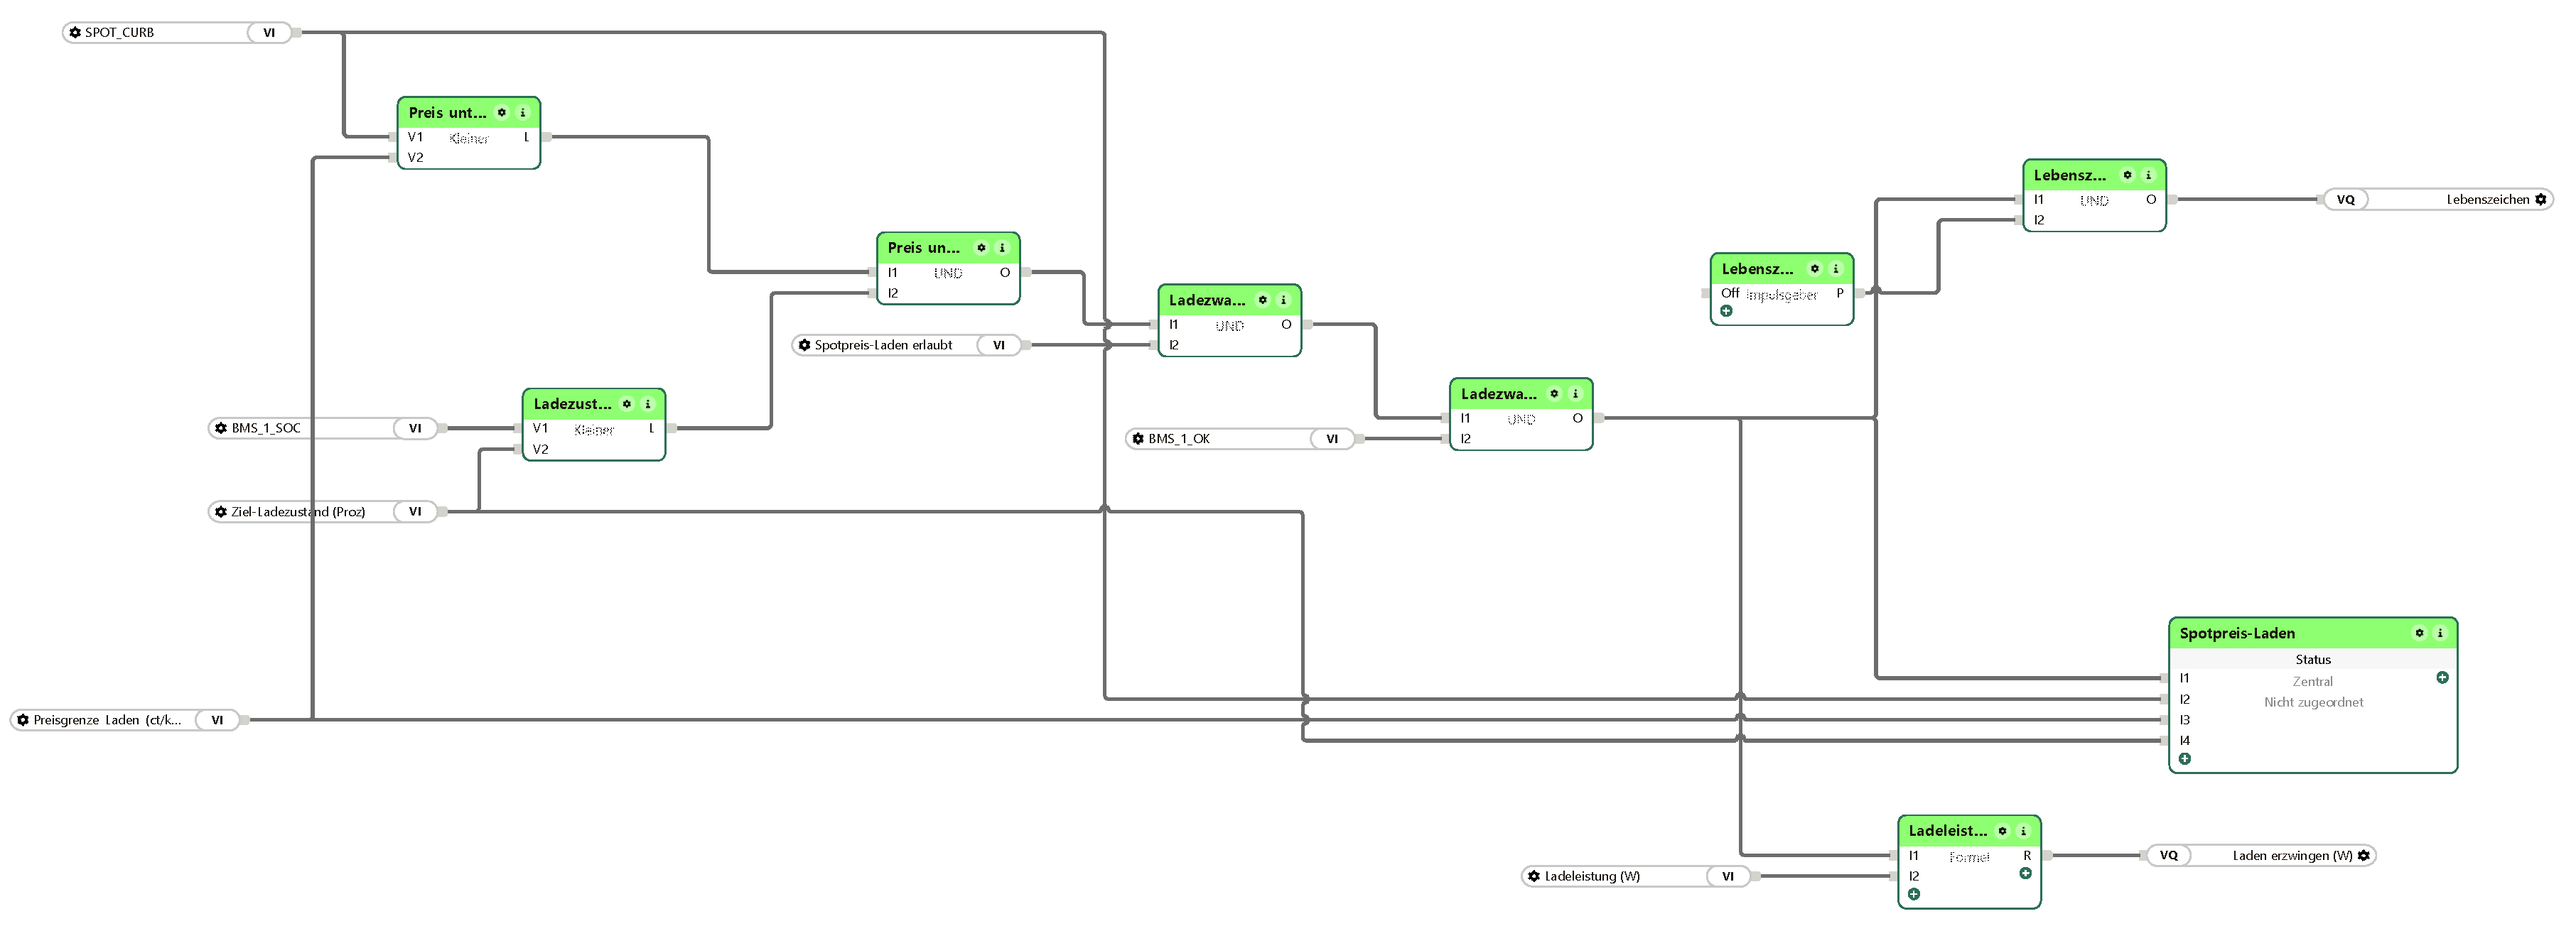
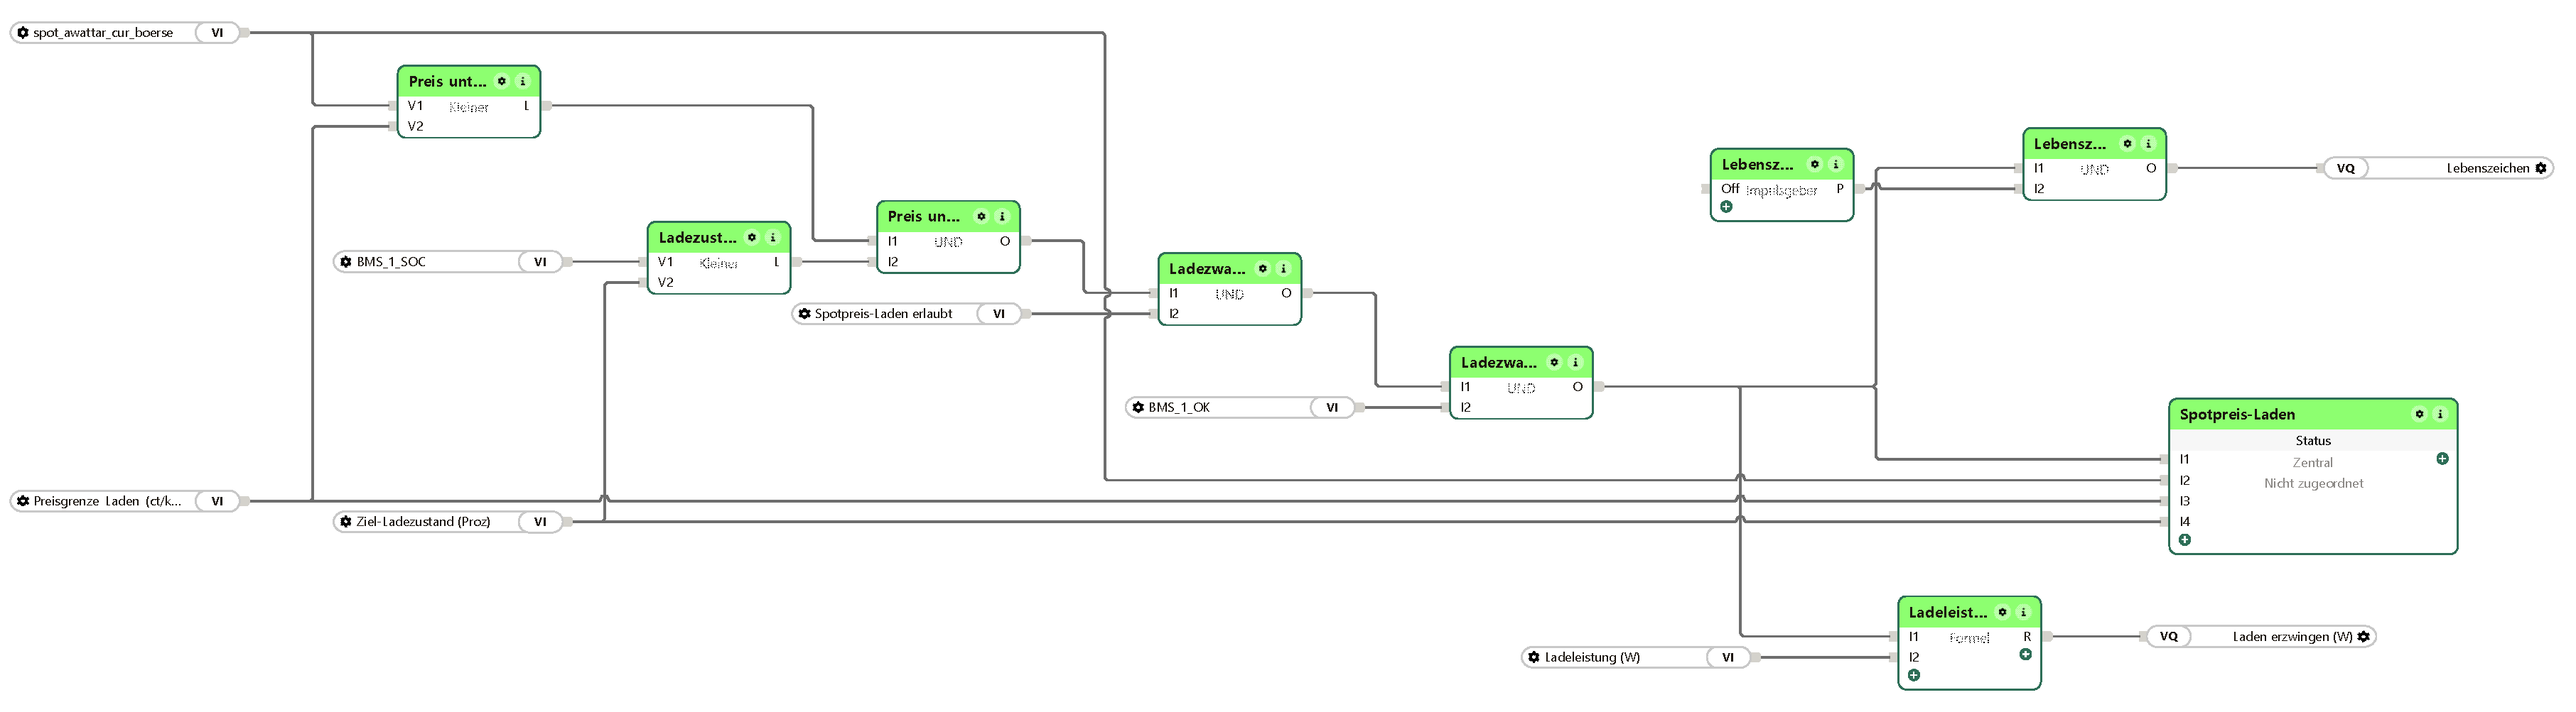
BatterieBMS 0.9.37: BatterieBMS 0.9.37: Börsenpreis als Virtueller Eingang (MQTT, aWATTar 1.2.38)
Textnachzug zum Musterprojekt, Reiter **Einbindung in Loxone**, Seite „BatterieBMS Spotpreis-Laden“: Spotpreis aWATTar liefert die
Werte jetzt über MQTT. Nr. 3 ist deshalb ein Virtueller Eingang `spot_awattar_cur_boerse` (bisher Virtueller HTTP-Eingang-Befehl
`SPOT_CURB` aus der Vorlage „Spotpreis aWATTar“): Virtuellen Eingang mit dem Namen aus der Namenstabelle im Reiter ‚Einbindung in Loxone‘ des Plugins Spotpreis aWATTar (ab 1.2.38) anlegen.
Kasten, Hinweise und Bild der Seite sind nachgezogen. Das Plugin selbst und seine Vorlagen sind unverändert.

diff --git a/webfrontend/htmlauth/index.php b/webfrontend/htmlauth/index.php
@@ -1840,8 +1840,8 @@ function bm_bausteine_spot()
     return array(
         bm_bl_zeile(1,  $tvi, bm_bl_vi('OK'),  bm_bl_param('BAUSTEIN.S01'), $leer),
         bm_bl_zeile(2,  $tvi, bm_bl_vi('SOC'), bm_bl_param('BAUSTEIN.S02'), $leer),
-        bm_bl_zeile(3,  bm_e(sprintf(bm_t('BAUSTEIN.T_VE_PLUGIN'), 'Spotpreis aWATTar', 'Spotpreis aWATTar')),
-                    '<span class="sm-mono">SPOT_CURB</span>', bm_bl_param('BAUSTEIN.S03'), $leer),
+        bm_bl_zeile(3,  bm_e(sprintf(bm_t('BAUSTEIN.T_VE_PLUGIN'), 'Spotpreis aWATTar')),
+                    '<span class="sm-mono">spot_awattar_cur_boerse</span>', bm_bl_param('BAUSTEIN.S03'), $leer),
         bm_bl_zeile(4,  bm_bl_typ('BAUSTEIN.T_SCHIEBER'), bm_e('Preisgrenze Laden (ct/kWh)'), bm_bl_param('BAUSTEIN.S04'), $leer),
         bm_bl_zeile(5,  bm_bl_typ('BAUSTEIN.T_KLEINER'), bm_e('Preis unter Grenze'), $leer, 'V1 = #3, V2 = #4'),
         bm_bl_zeile(6,  bm_bl_typ('BAUSTEIN.T_SCHIEBER'), bm_e('Ziel-Ladezustand (Proz)'), bm_bl_param('BAUSTEIN.S06'), $leer),

diff --git a/README.md b/README.md
@@ -10,6 +10,13 @@ nur so weit, wie der Wechselrichter ihn durchreicht: Ladezustand und Leistung
 ja, die einzelne Zelle so gut wie nie. Wer wissen will, ob eine Zelle abfällt,
 muss das BMS selbst fragen.
 
+## Neu in 0.9.37
+
+Textnachzug zum Musterprojekt, Reiter **Einbindung in Loxone**, Seite „BatterieBMS Spotpreis-Laden“: Spotpreis aWATTar liefert die
+Werte jetzt über MQTT. Nr. 3 ist deshalb ein Virtueller Eingang `spot_awattar_cur_boerse` (bisher Virtueller HTTP-Eingang-Befehl
+`SPOT_CURB` aus der Vorlage „Spotpreis aWATTar“): Virtuellen Eingang mit dem Namen aus der Namenstabelle im Reiter ‚Einbindung in Loxone‘ des Plugins Spotpreis aWATTar (ab 1.2.38) anlegen.
+Kasten, Hinweise und Bild der Seite sind nachgezogen. Das Plugin selbst und seine Vorlagen sind unverändert.
+
 ## Neu in 0.9.36
 
 Reiter „Einbindung in Loxone“: Vollausstattung aus dem
